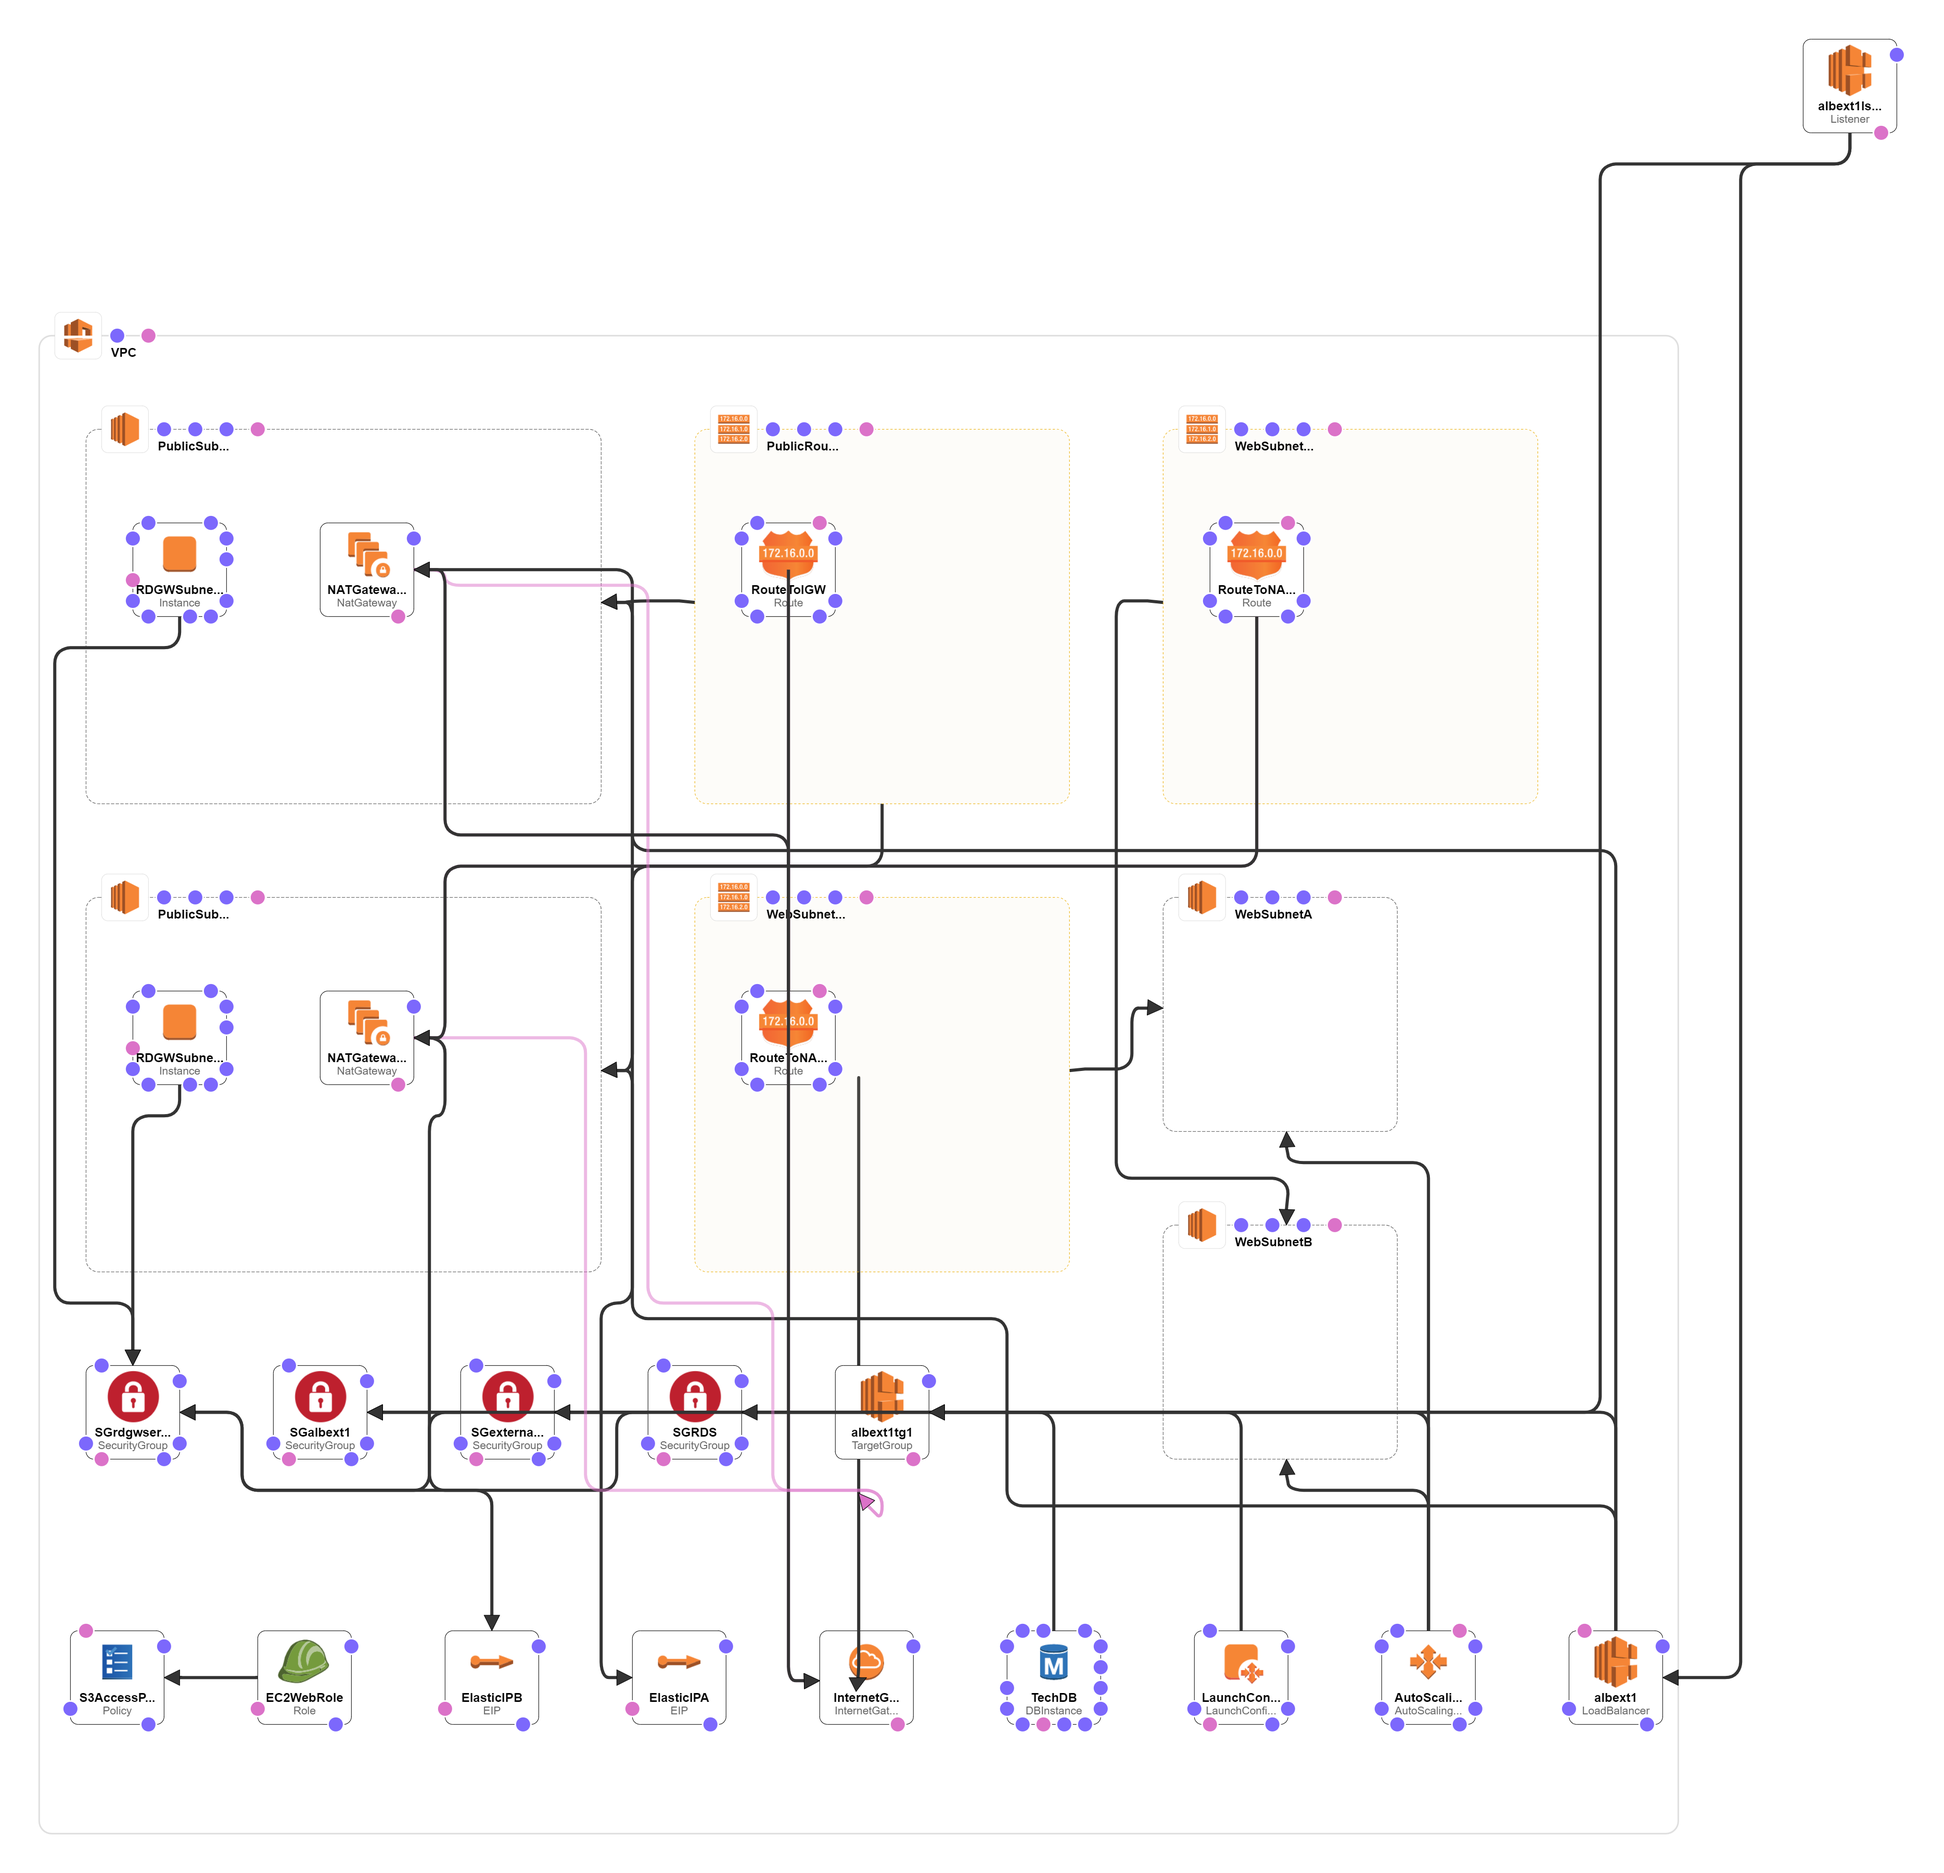
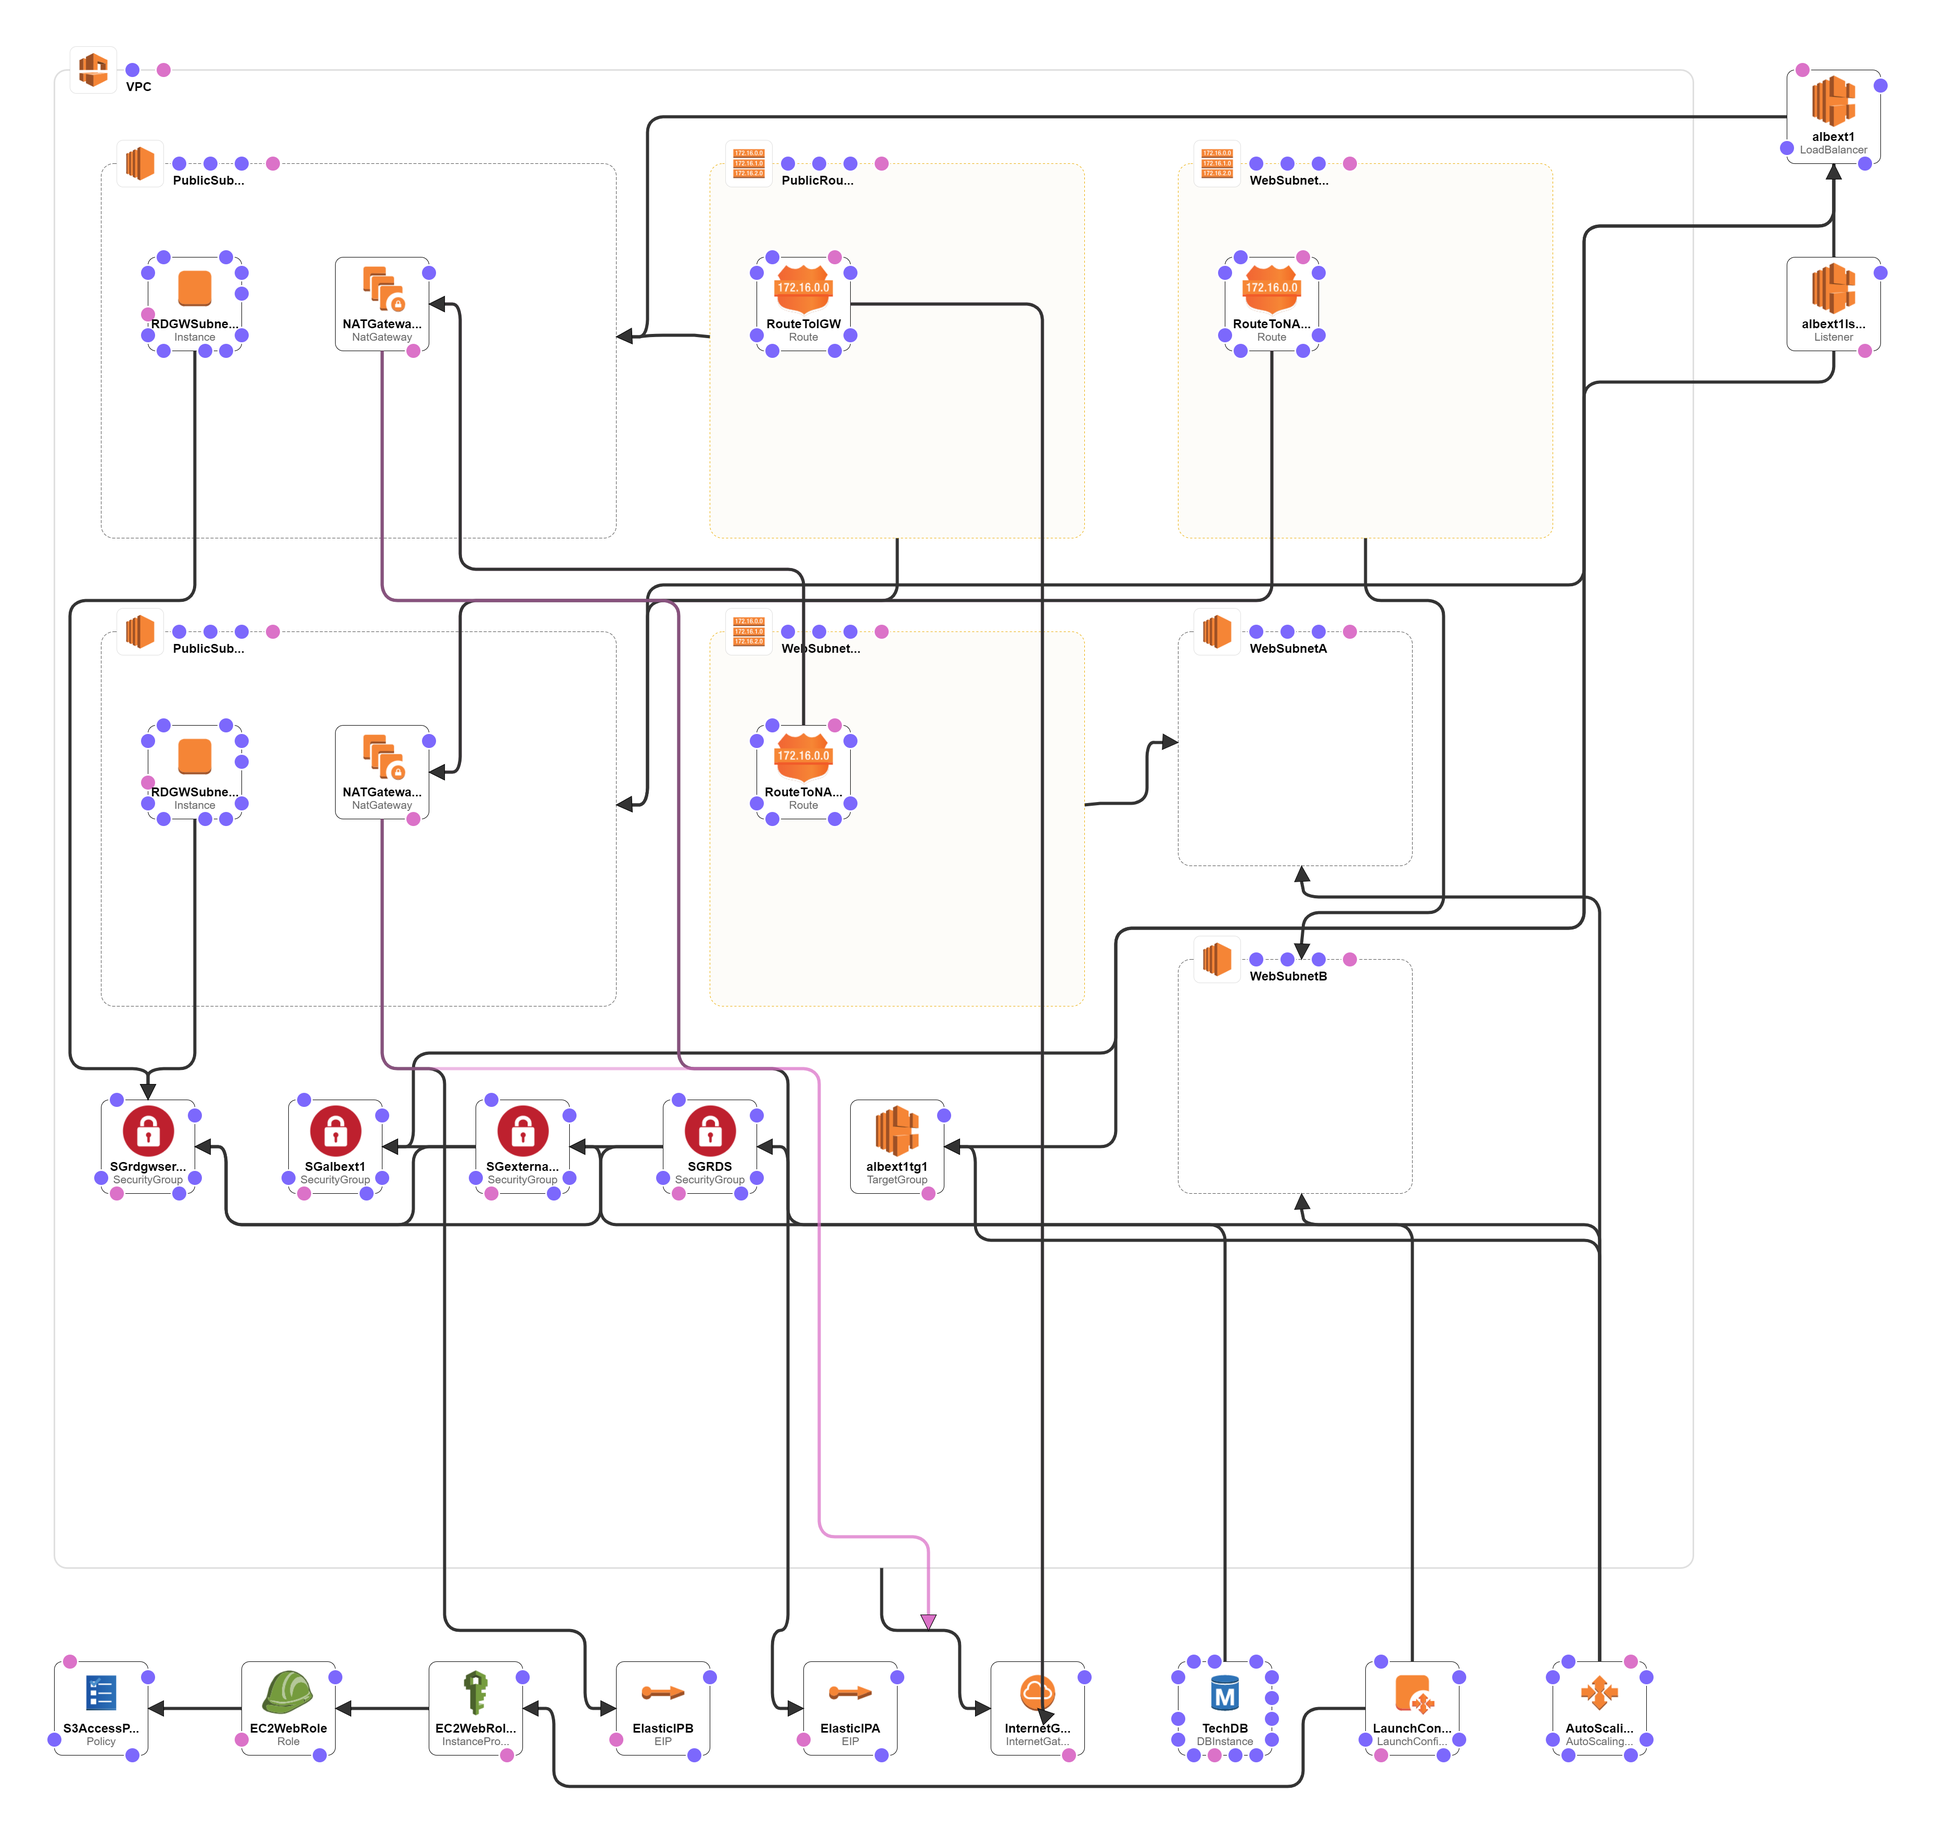
Created CF template to deploy TechTestApp into AWS

diff --git a/README.md b/README.md
@@ -1,1 +1,15 @@
-# Test
+# TechTestApp
+
+This repository holds the code and instructions to deploy the TechTestApp(..) using AWS cloudformation.
+
+The overall deployment steps are:
+1. Ensure the application is built well on local machine using the dev team instructions.  
+2. Ensure the built package uploaded to an S3 bucket.  
+3. Ensure that the Auto scaling group that will spin up  new instances should have a role (with the appropriate S3  bucket policy) to pickup the package from S3 and deploy the same.  
+
+Contents of the repo:  
+1. AWS_CF.yml --> Cloudformation  
+2. AWS Architecture.png --> Architecture of the AWS infrastructure.
+3. ..... --> Application Architecture.
+
+
